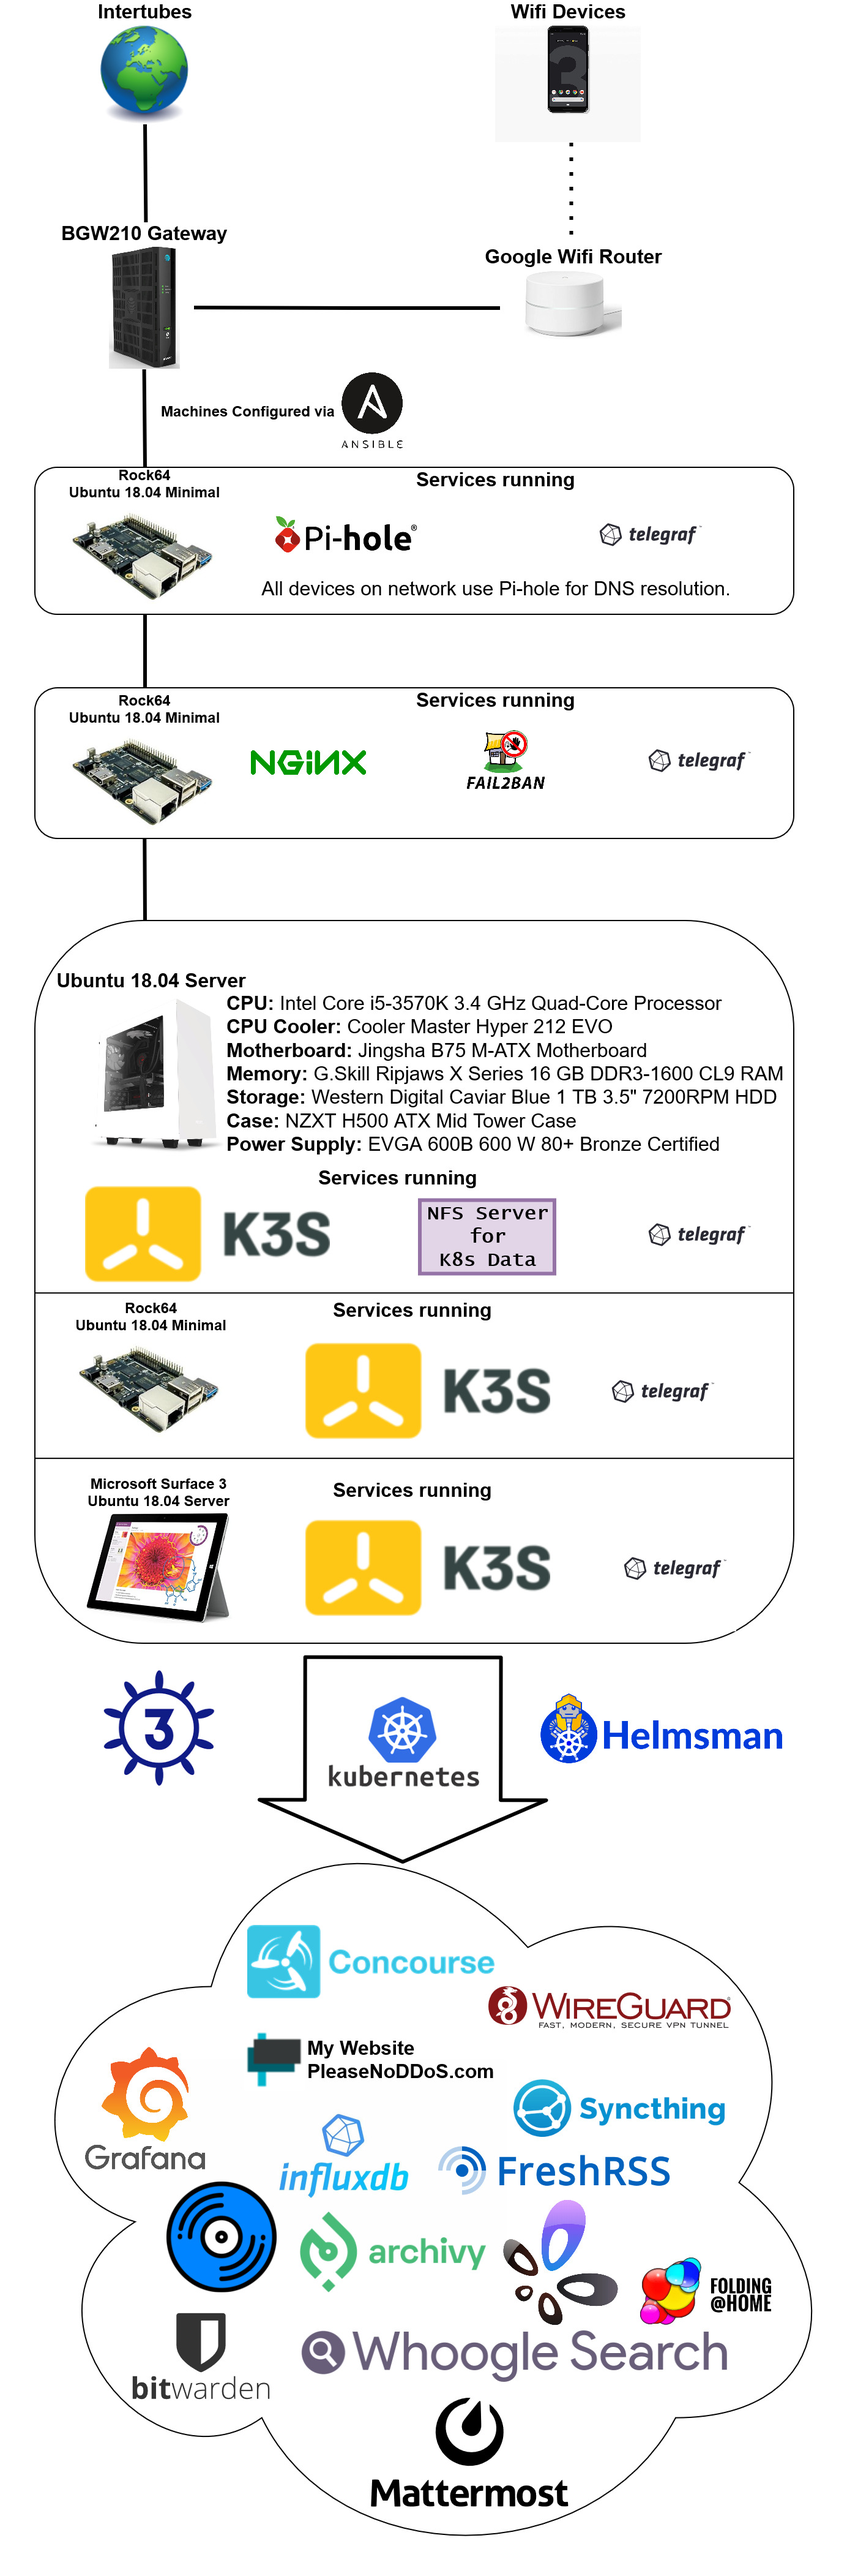
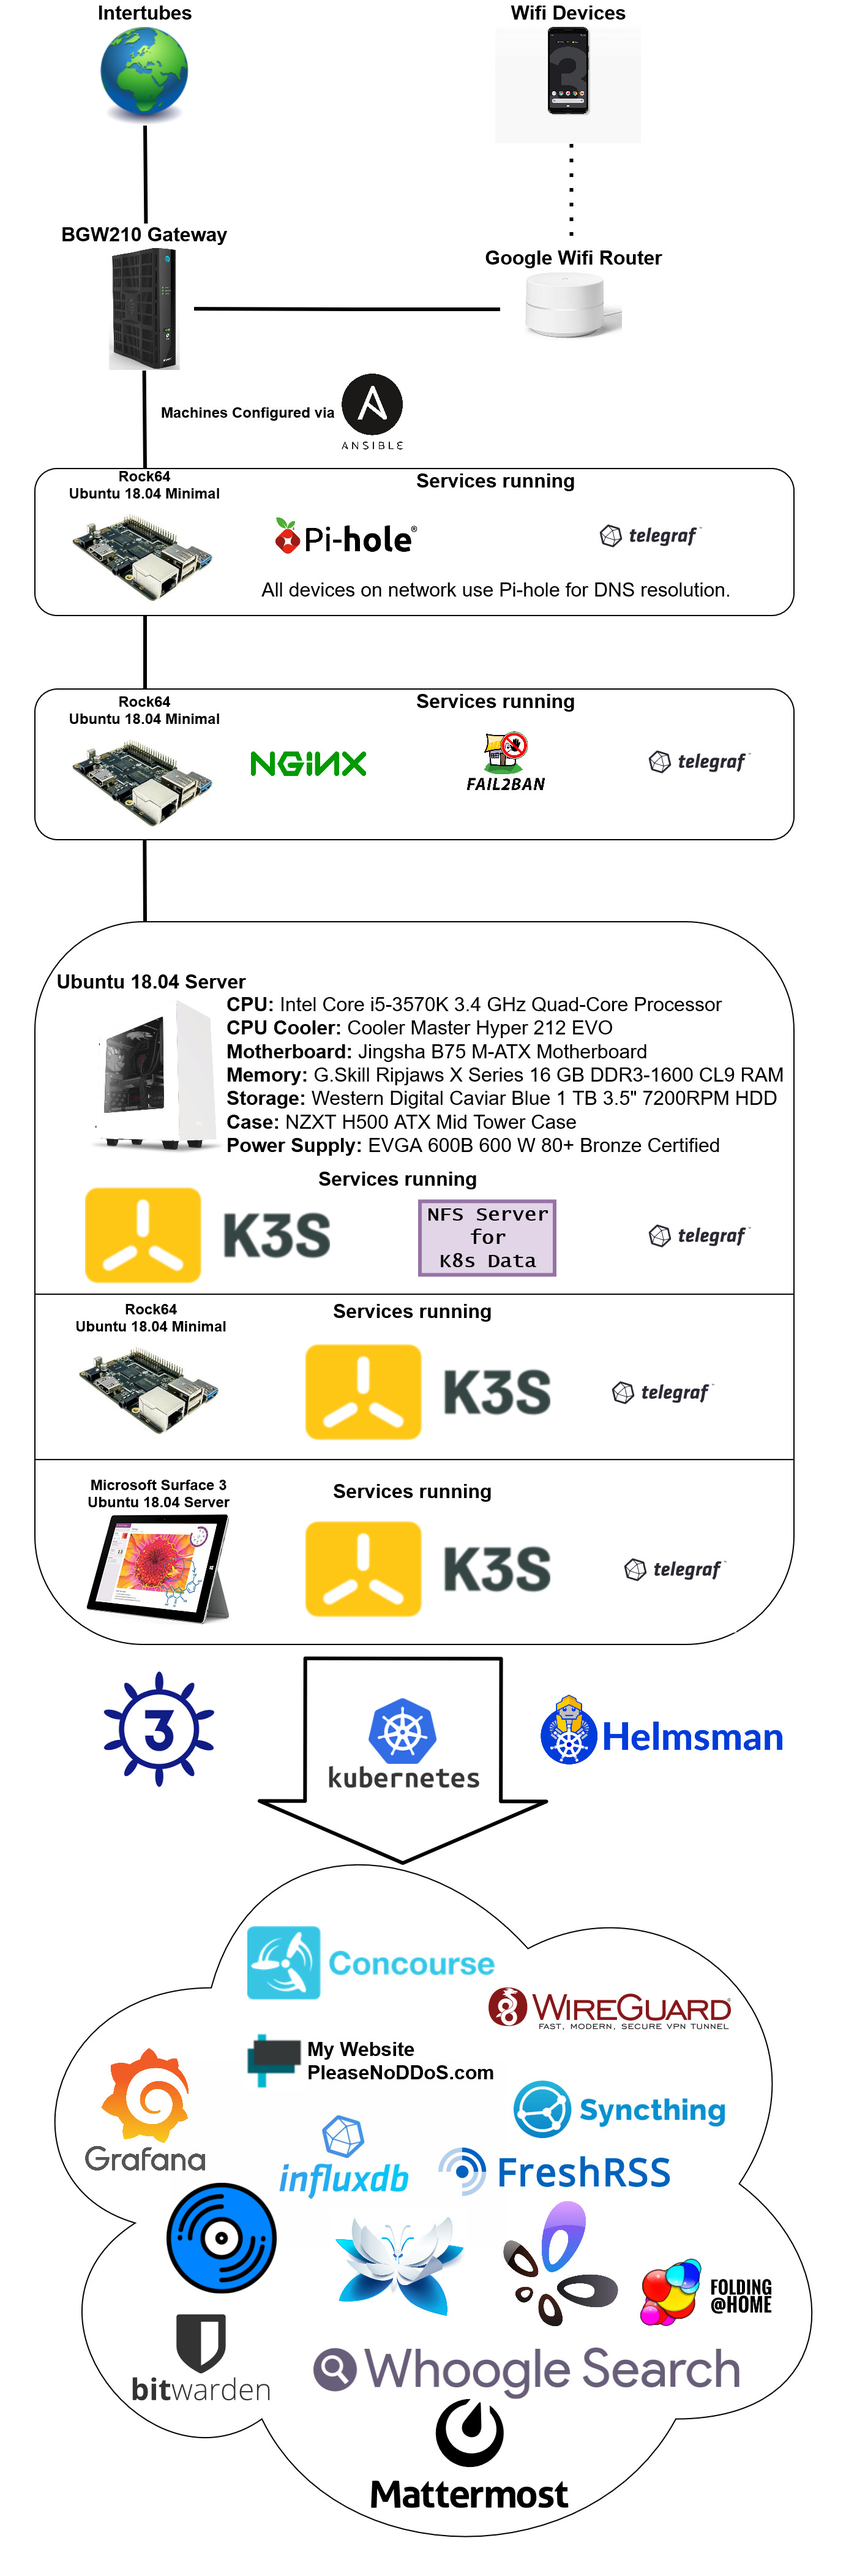
wikijs

diff --git a/flipenergy/content/post/wikijs.md b/flipenergy/content/post/wikijs.md
@@ -1,0 +1,13 @@
+---
+title: "Wiki.js"
+date: 2021-03-01T11:31:49-08:00
+draft: false
+---
+
+So I took a look through [Archivy's](https://archivy.github.io/) code, trying to determine if we can scale it up as a gunicorn WSGI app rather than the single threaded Flask app that it is now. Unfortunately, the app doesn't seem to be completely stateless (i.e. login sessions weren't shared between the instances) so I decided find a new wiki or notes alternative. I looked through about 10 options and landed on [wiki.js](https://js.wiki/) because it was feature rich, it had password protection, it already has a maintained helm chart so I didn't need to write my own, and it uses just PostgreSQL for its database, which I'm already running for Concourse.
+
+So I went to work. First by changed the way I deployed concourse to not include the PostgreSQL dependency and spun up the latest bitnami PostgreSQL helm chart in its own namespace, and simply pointed my concourse instance to it. Then I also spun up wiki.js and pointed it to a new database in my PostgreSQL and moved all the data for PostgreSQL into syncthing for automatic back up.
+
+I migrated all my documents from Archivy to wiki.js and am very pleased with its ease of use. I use it to document things about my homelab, links to various sites, code snippits, recipes, my D&D notes, and much more.
+
+![wiki.js](wikijs.png)
